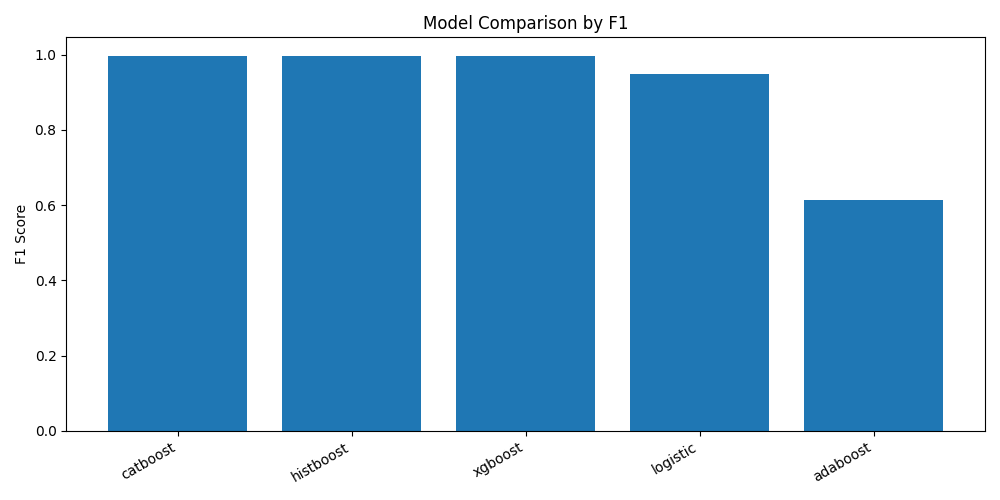
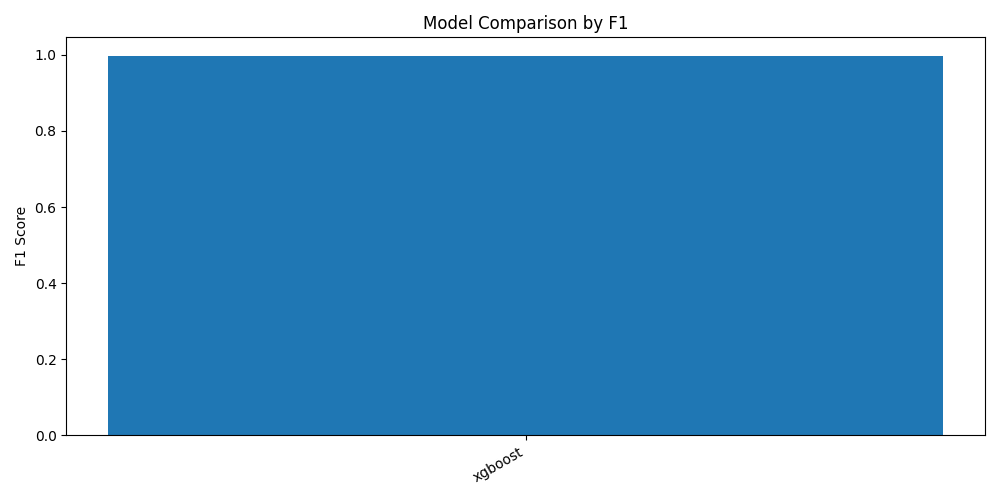
Final

diff --git a/tests/test_training_pipeline.py b/tests/test_training_pipeline.py
@@ -38,7 +38,9 @@ def hotel_dataset():
             "is_holiday": _repeated([0, 1], n),
             "is_canceled": _repeated([0, 1], n),
             "arrival_date": pd.date_range("2015-07-01", periods=n, freq="D"),
-            "reservation_status_date": pd.date_range("2015-07-02", periods=n, freq="D"),
+            "reservation_status_date": pd.date_range(
+                "2015-07-02", periods=n, freq="D"
+            ),
             "arrival_date_year": [2015] * n,
             "arrival_date_month": _repeated([7, 8], n),
             "arrival_date_week_number": (rows % 52) + 1,
@@ -87,15 +89,22 @@ def test_group_rare_categories_keeps_frequent_values_and_groups_rare_values():
 def test_model_registry_contains_expected_models():
     registry = get_model_registry(random_state=7)
 
-    assert {"baseline", "logistic", "xgboost", "catboost", "histboost", "ada_boost"} <= set(
-        registry
-    )
+    assert {
+        "baseline",
+        "logistic",
+        "xgboost",
+        "catboost",
+        "histboost",
+        "adaboost",
+    } <= set(registry)
     assert registry["baseline"][1] == {}
     assert "C" in registry["logistic"][1]
 
 
 def test_train_single_model_baseline_runs(hotel_dataset):
-    result = train_single_model(hotel_dataset, model_name="baseline", cv_splits=2)
+    result = train_single_model(
+        hotel_dataset, model_name="baseline", cv_splits=2
+    )
 
     assert isinstance(result, TrainingResult)
     assert result.model_name == "baseline"
@@ -103,8 +112,12 @@ def test_train_single_model_baseline_runs(hotel_dataset):
     assert len(result.predictions) == len(result.y_true)
 
 
-def test_train_single_model_logistic_returns_pipeline_and_test_split(hotel_dataset):
-    result = train_single_model(hotel_dataset, model_name="logistic", cv_splits=2)
+def test_train_single_model_logistic_returns_pipeline_and_test_split(
+    hotel_dataset,
+):
+    result = train_single_model(
+        hotel_dataset, model_name="logistic", cv_splits=2
+    )
 
     assert hasattr(result.best_model, "named_steps")
     assert "preprocessing" in result.best_model.named_steps
@@ -114,7 +127,9 @@ def test_train_single_model_logistic_returns_pipeline_and_test_split(hotel_datas
 
 
 def test_metrics_are_valid(hotel_dataset):
-    result = train_single_model(hotel_dataset, model_name="logistic", cv_splits=2)
+    result = train_single_model(
+        hotel_dataset, model_name="logistic", cv_splits=2
+    )
 
     for key in ["accuracy", "f1", "precision", "recall"]:
         assert 0.0 <= result.metrics[key] <= 1.0

diff --git a/src/data/cleaning.py b/src/data/cleaning.py
@@ -66,9 +66,15 @@ nums = [
 
 
 def outlier_extraction(df: pd.DataFrame, col: str) -> pd.DataFrame:
-    lower = df[col].quantile(0.01)
-    upper = df[col].quantile(0.99)
-    return df[(df[col] >= lower) & (df[col] <= upper)]
+    lower = round(df[col].quantile(0.01))
+    upper = round(df[col].quantile(0.99))
+    outlier_pct = ((df[col] < lower) | (df[col] > upper)).mean() * 100
+    print(
+        f"{col}: {outlier_pct:.2f}% outliers"
+        f"({(outlier_pct/100 * len(df)):.0f} rows)"
+    )
+    df[col] = df[col].clip(lower=lower, upper=upper)
+    return df
 
 
 def clean_dtypes(df: pd.DataFrame) -> pd.DataFrame:

diff --git a/tests/test_data.py b/tests/test_data.py
@@ -29,17 +29,6 @@ def test_clean_data_removes_invalid_guest_rows() -> None:
     assert len(cleaned) == 1
 
 
-def test_cols_grouped_by_type(toy_dataset):
-    cleaned_types_df = clean_dtypes(toy_dataset)
-    numerical_cols, categorical_cols, date_cols = get_types()
-    assert len(numerical_cols) == 9
-    assert len(categorical_cols) == 4
-    assert 'is_canceled' not in numerical_cols
-    assert 'adr' in numerical_cols
-    assert 'reserved_room_type' in categorical_cols
-    assert 'reservation_status_date' in date_cols
-
-
 @pytest.mark.parametrize(
     "size,k_agent,k_country", [(10, 2, 4), (50, 4, 4), (200, 5, 5)]
 )